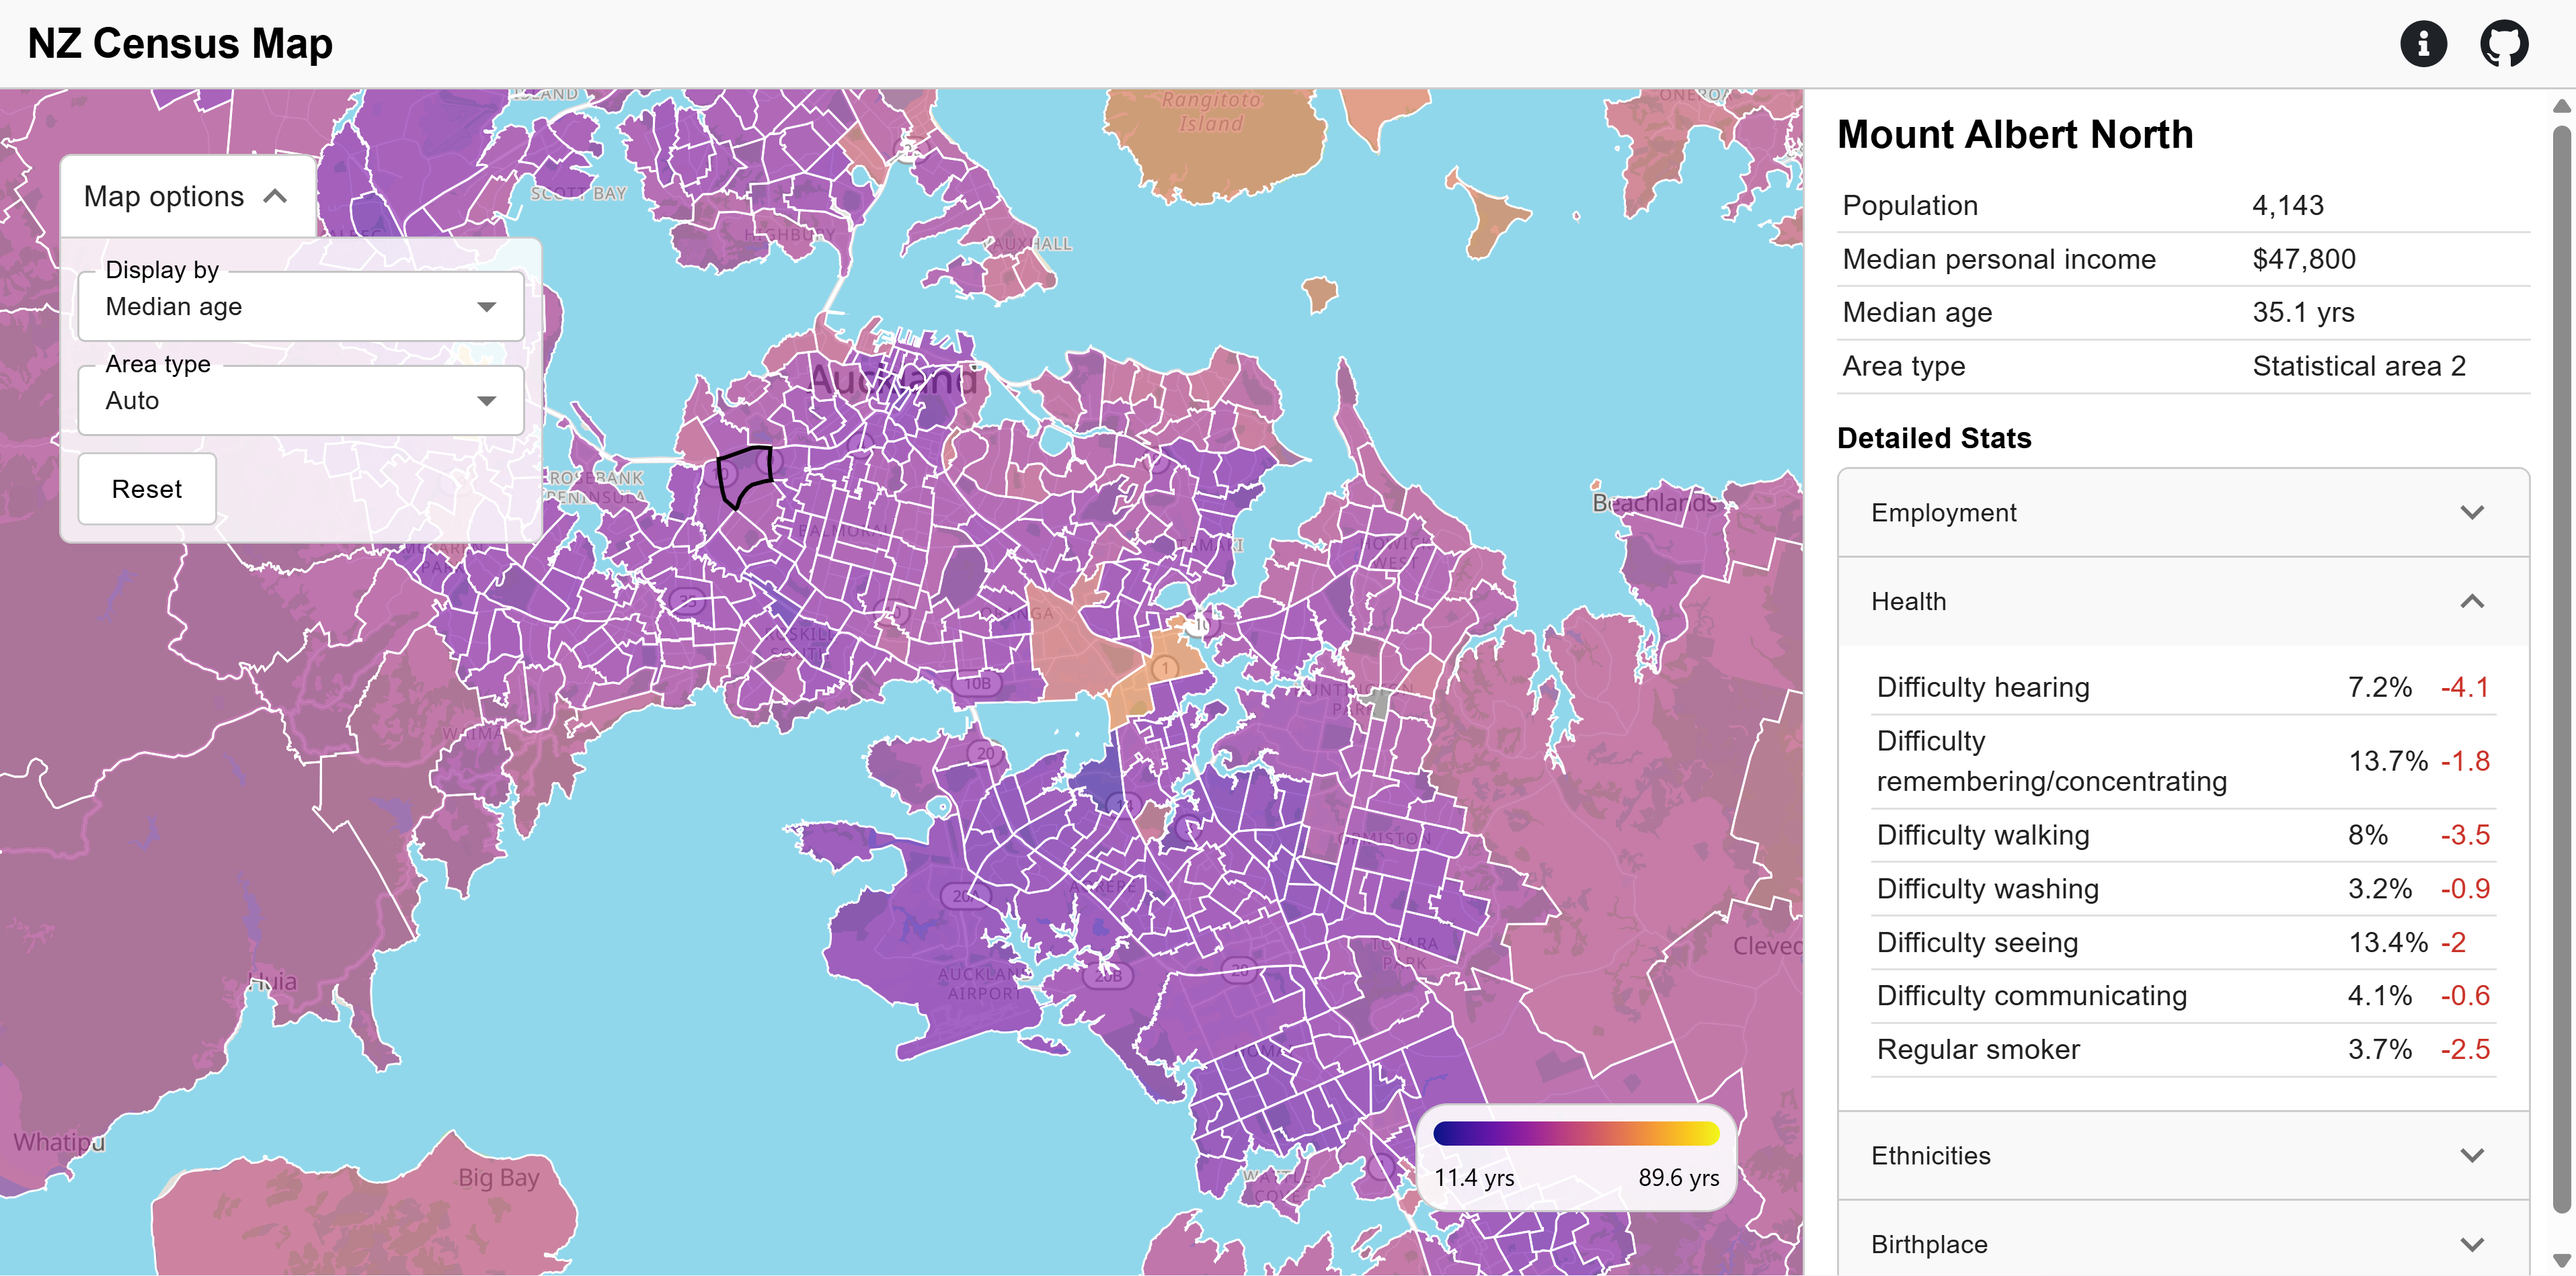
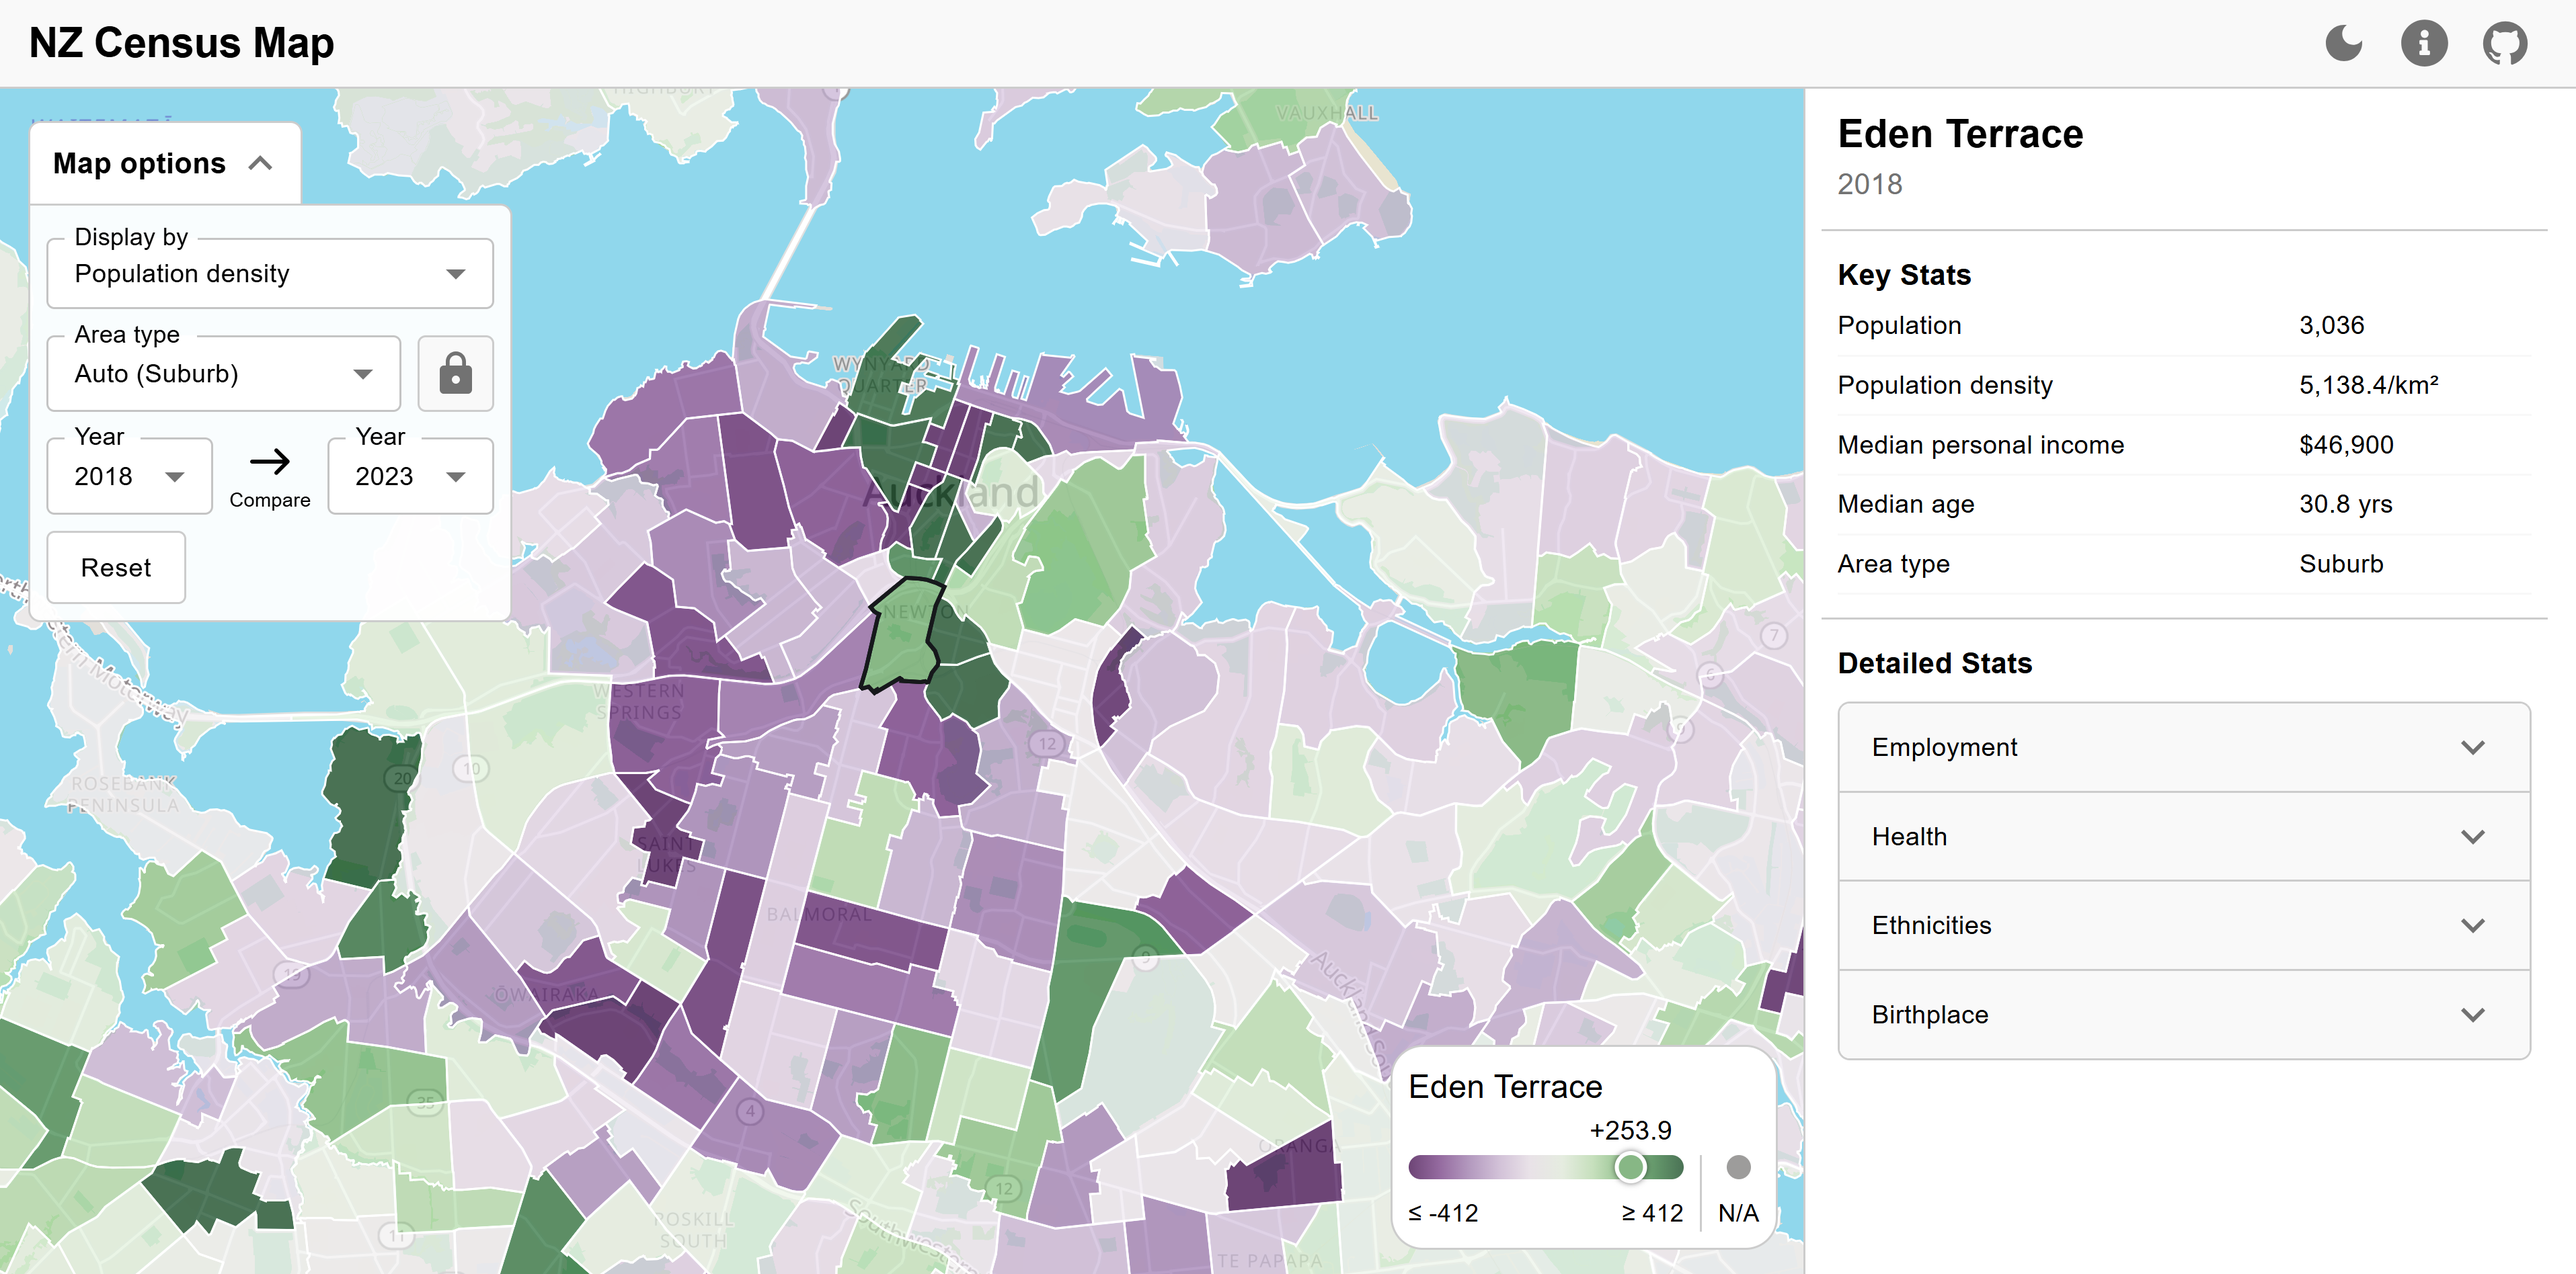
updating the readme

diff --git a/README.md b/README.md
@@ -1,6 +1,6 @@
 # NZ Census Map
 
-A website to visualise the 2023 NZ Census using an interactive map, available at [nz-census-map.com](https://nz-census-map.com/).
+A website to visualise and compare NZ censuses using an interactive map, available at [nz-census-map.com](https://nz-census-map.com/).
 
 <div style="display: flex; justify-content: space-around; align-items: center;">
   <img src="phone-screenshot.png" width="16%" alt="Phone Screenshot"/>
